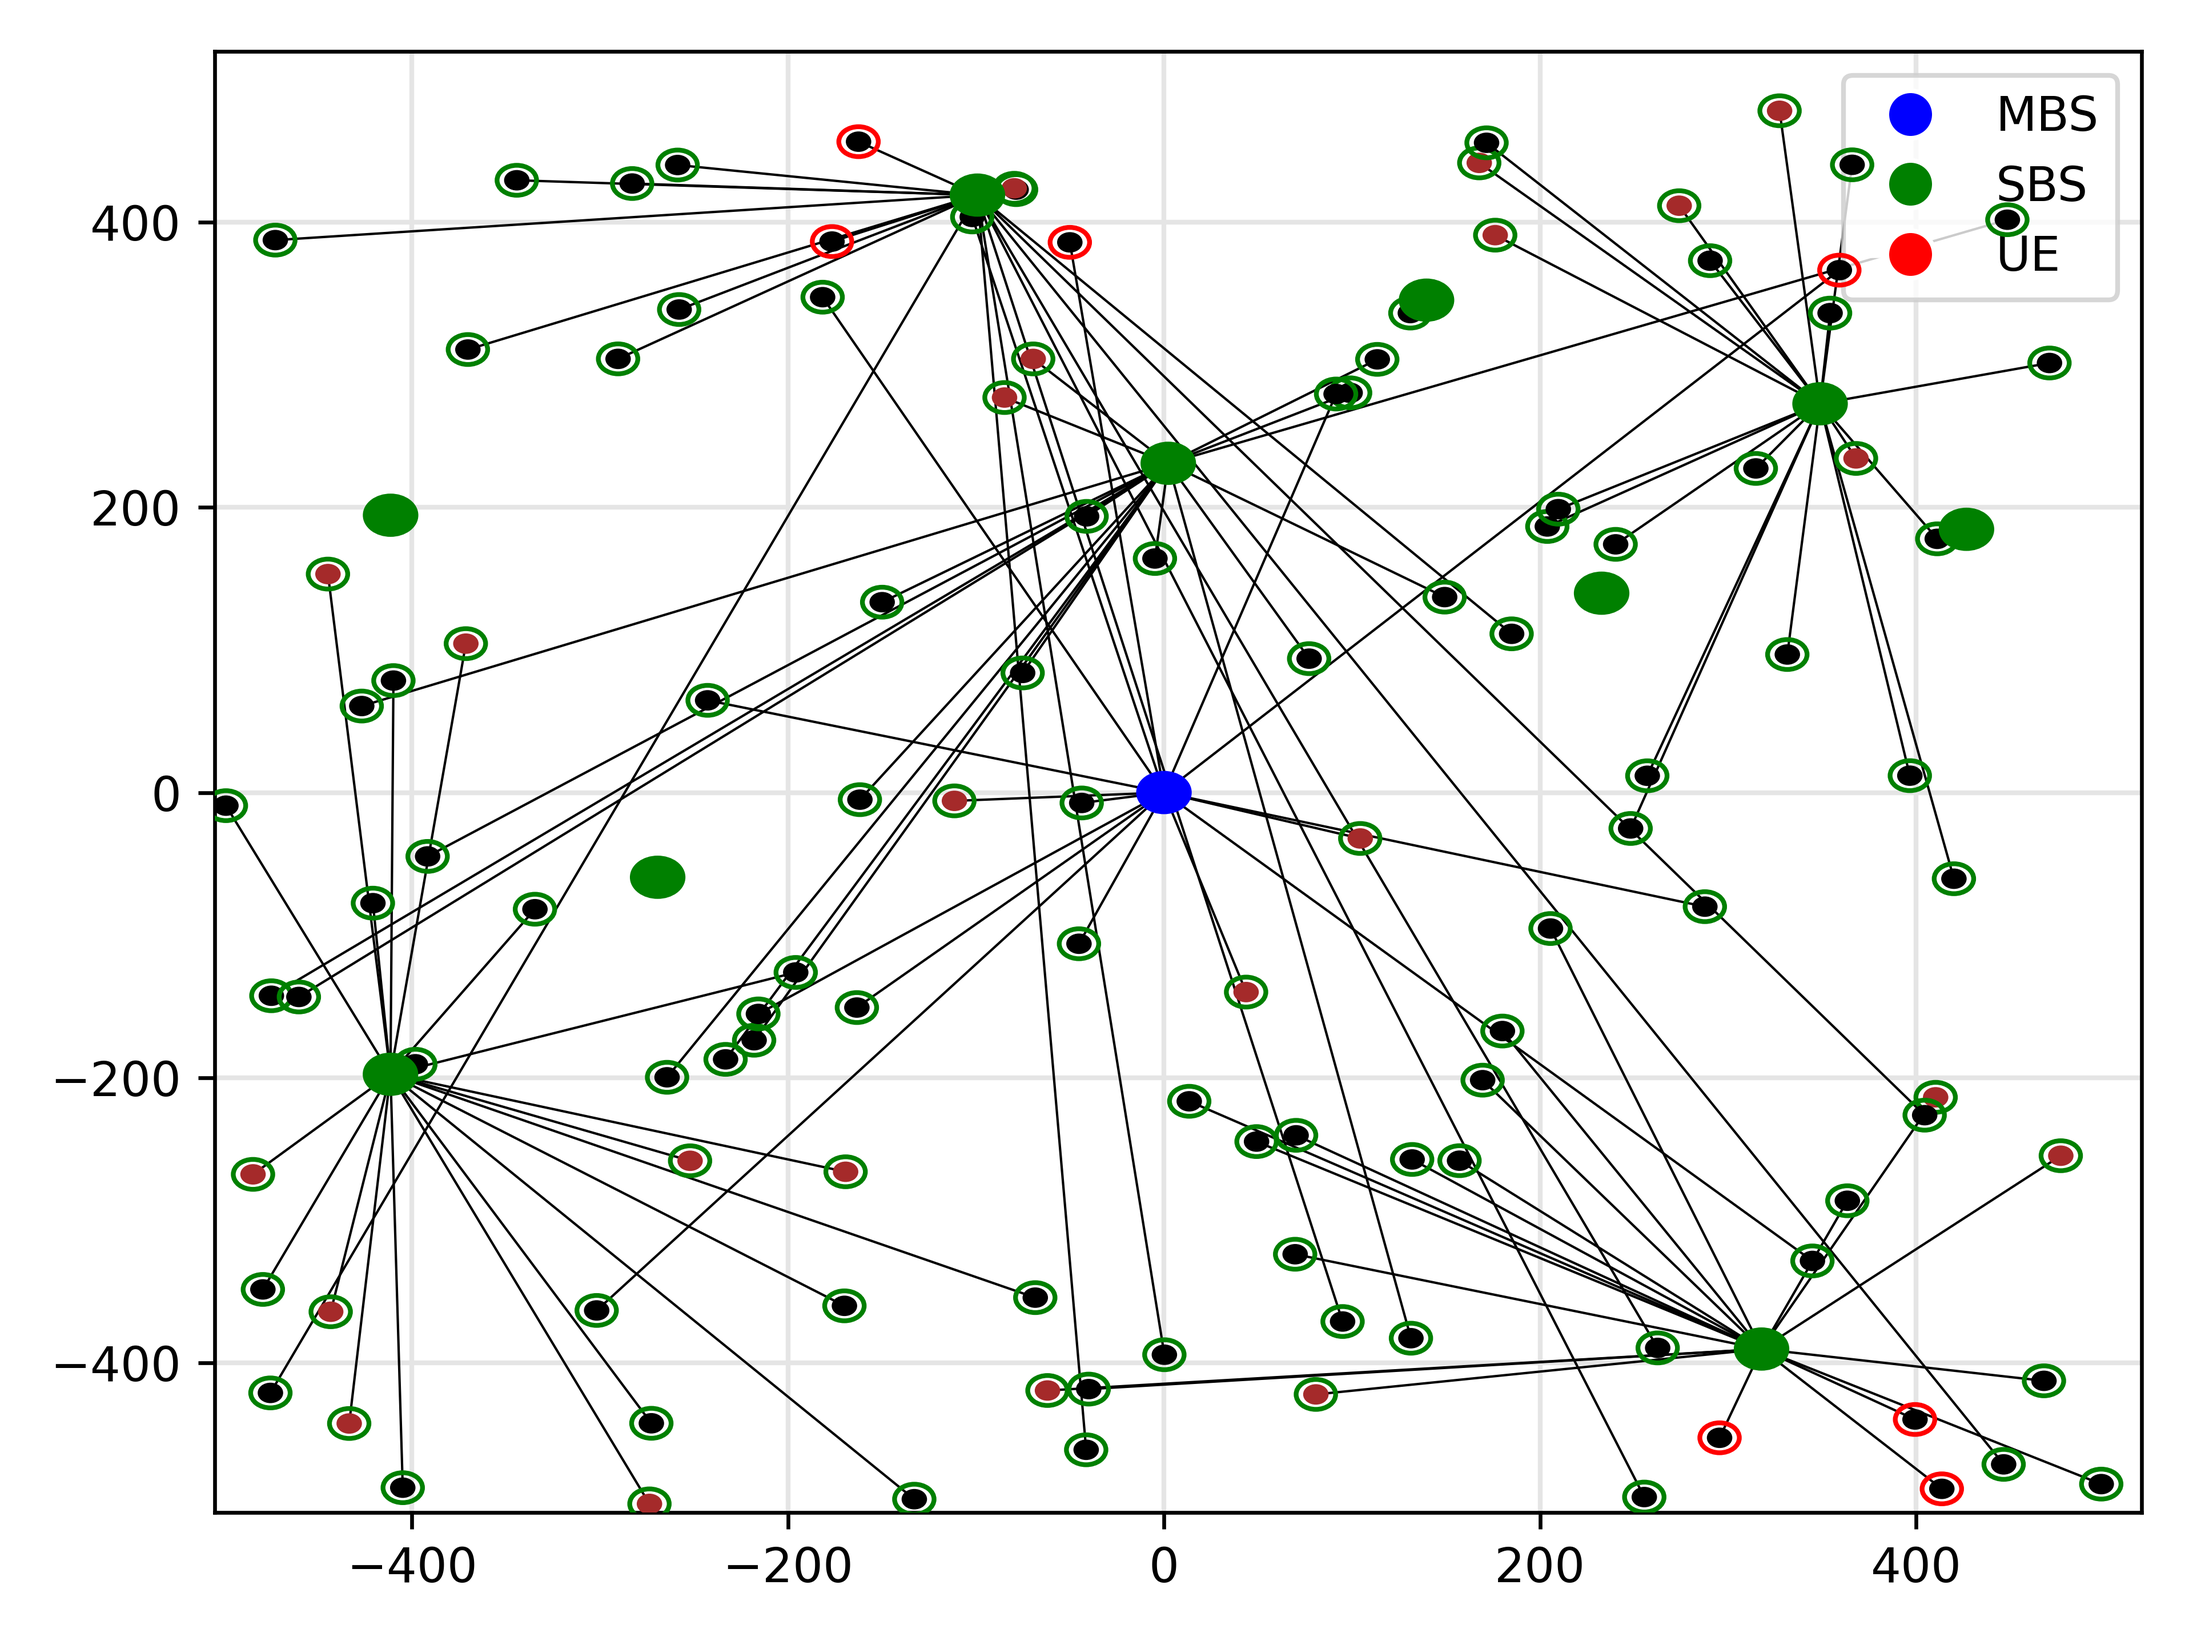
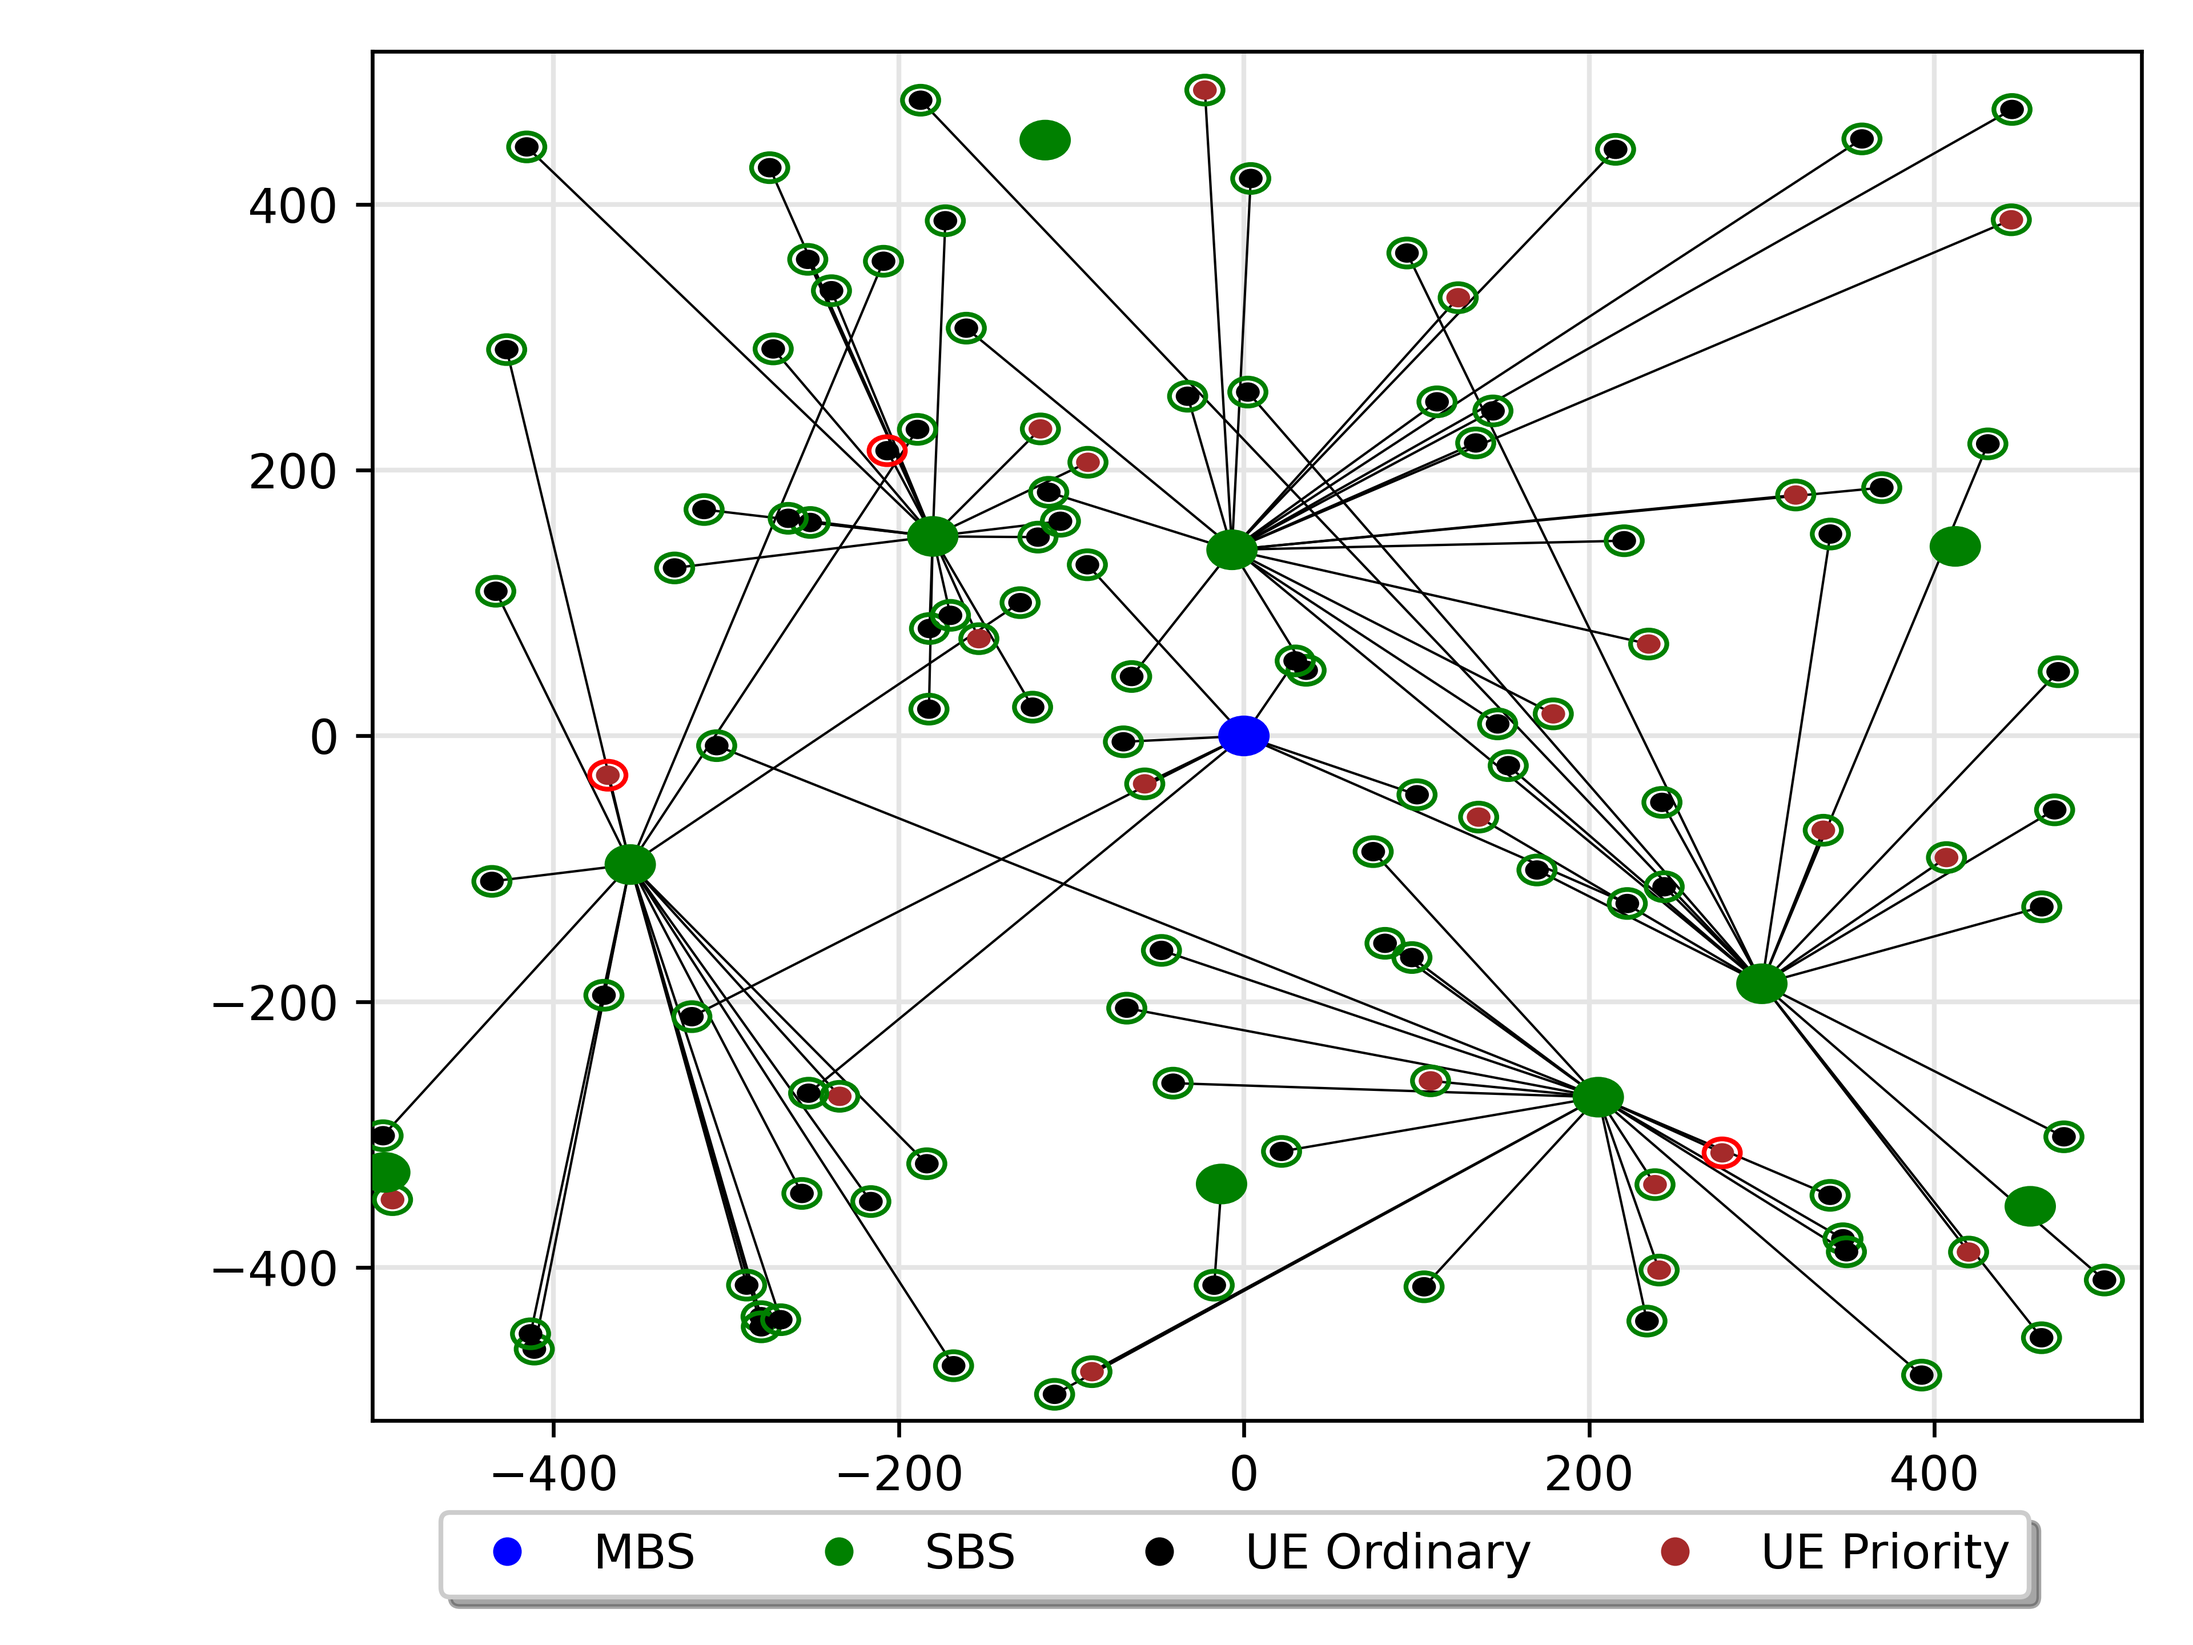
Alterações no resultados

Changed region(s): [[0.0312, 0.0312, 0.9688, 1.0], [0.0625, 0.4688, 0.125, 0.5312], [0.5312, 0.0312, 0.5625, 0.0625]]

diff --git a/results.py b/results.py
@@ -3,30 +3,42 @@ import pandas as pd
 import matplotlib.pyplot as plt
 import seaborn as sns
 
+from config.globalc import GlobalConfig
 
-a2c = pd.read_csv(os.path.join('output/csv', 'A2C.csv'))
-ppo = pd.read_csv(os.path.join('output/csv', 'PPO.csv'))
-ddpg = pd.read_csv(os.path.join('output/csv', 'DDPG.csv'))
-sac = pd.read_csv(os.path.join('output/csv', 'SAC.csv'))
-td3 = pd.read_csv(os.path.join('output/csv', 'TD3.csv'))
+config = GlobalConfig()
 
+max_sinr = pd.read_csv(os.path.join(config.csv_path, 'max_sinr.csv'))
+ubias = pd.read_csv(os.path.join(config.csv_path, 'bias.csv'))
+a2c = pd.read_csv(os.path.join(config.csv_path, 'A2C.csv'))
+ppo = pd.read_csv(os.path.join(config.csv_path, 'PPO.csv'))
+ddpg = pd.read_csv(os.path.join(config.csv_path, 'DDPG.csv'))
+sac = pd.read_csv(os.path.join(config.csv_path, 'SAC.csv'))
+td3 = pd.read_csv(os.path.join(config.csv_path, 'TD3.csv'))
 
-
+satisfacao_max = max_sinr['satisfaction']
+satisfacao_bias = ubias['satisfaction']
 satisfacao_a2c = a2c['satisfaction']
 satisfacao_ppo = ppo['satisfaction']
 satisfacao_ddpg = ddpg['satisfaction']
 satisfacao_sac = sac['satisfaction']
 satisfacao_td3 = td3['satisfaction']
 
-dataframe = pd.DataFrame({'A2C': satisfacao_a2c, 'PPO': satisfacao_ppo, 
-                          'DDPG': satisfacao_ddpg, 'SAC': satisfacao_sac, 'TD3': satisfacao_td3})
+dataframe = pd.DataFrame({'Max-SINR': satisfacao_max,
+                          'Bias-40db': satisfacao_bias,
+                          'A2C': satisfacao_a2c,
+                          'PPO': satisfacao_ppo,
+                          'DDPG': satisfacao_ddpg,
+                          'SAC': satisfacao_sac,
+                          'TD3': satisfacao_td3})
 
 # Plotar o boxplot usando seaborn
 sns.boxplot(data=dataframe, orient='v')
 
 # Nomeando dos eixos
-plt.xlabel('Algoritmo')
-plt.ylabel('Satisfacao')
+plt.xlabel('Algoritmo de RL')
+plt.ylabel('Satisfação de UEs [%]')
+plt.grid(linestyle=':', zorder=-1)
 
 # Exibir o gráfico
-plt.show()
+path = os.path.join(config.image_path, 'boxplot.png')
+plt.savefig(path, dpi=config.image_resolution, bbox_inches='tight')

diff --git a/main_bias.py b/main_bias.py
@@ -10,7 +10,7 @@ from utils.utils import coletar_satisfacao
 
 simulacoes = 100
 satisfaction = []
-model_name = "A2C"
+model_name = "bias"
 config = GlobalConfig()
 
 
@@ -25,39 +25,16 @@ for i in range(simulacoes):
     h.run()
     print("Satisfação Inicial: {}".format(h.evaluation['satisfaction']))
     print("Load Inicial: {}".format(h.get_load()))
-    if i % 10 == 0:
-        h.debug("initial_{}_{}.png".format(model_name, i))
 
     # Criação do Ambiente
     env = gym.make("gym_pycre:pycre-v0", hetnet=h)
 
-    # Verifica se há um modelo treinado
-    path = os.path.join(config.model_path, "{}.zip".format(model_name))
-    if os.path.isfile(path):
-        # Carrega o Modelo já treinado
-        model = A2C.load(path)
-    else:
-        # Criação do Modelo Novo
-        # TODO: Ainda pode ser ajustado o learning_rate.
-        model = A2C("MlpPolicy", env, verbose=2, policy_kwargs=dict(optimizer_class=RMSpropTFLike,
-                                                                    optimizer_kwargs=dict(eps=1e-5),
-                                                                    net_arch=[256, 256]))
-        # Treinamento do Modelo Novo
-        model.learn(total_timesteps=100000)
-
-        # Salva o Modelo Treinado
-        model.save(path)
-
     # Reseta o Ambiente
     obs = env.reset()
 
-    action, _states = model.predict(obs, deterministic=True)
-    obs, rewards, dones, info = env.step(action)
+    obs, rewards, dones, info = env.step([10.0, 40.0, 40.0, 40.0, 40.0, 40.0, 40.0, 40.0, 40.0, 40.0, 40.0])
     print("Satisfação Final: {}".format(info['satisfaction']))
     print("Load Final: {}".format(obs))
-    if i % 10 == 0:
-        output = "{}_{}".format(model_name, i)
-        env.render(model_name=output)
 
     # guardando em uma lista
     satisfaction.append(info['satisfaction'])

diff --git a/utils/chats.py b/utils/chats.py
@@ -8,16 +8,17 @@ from config.network import Network
 
 def get_visual(hetnet, filename):
     # Legend
-    legend_elements = [Line2D([0], [0], marker='o', color='w', label='MBS', markerfacecolor='b', markersize=10),
-                       Line2D([0], [0], marker='o', color='w', label='SBS', markerfacecolor='g', markersize=10),
-                       Line2D([0], [0], marker='o', color='w', label='UE', markerfacecolor='r', markersize=10)]
+    legend_elements = [Line2D([0], [0], marker='o', color='w', label='MBS', markerfacecolor='b', markersize=7),
+                       Line2D([0], [0], marker='o', color='w', label='SBS', markerfacecolor='g', markersize=7),
+                       Line2D([0], [0], marker='o', color='w', label='UE Ordinary', markerfacecolor='black', markersize=7),
+                       Line2D([0], [0], marker='o', color='w', label='UE Priority', markerfacecolor='brown', markersize=7)]
 
     # Create figure
     fig = plt.figure()
     ax = fig.add_subplot(1, 1, 1)
 
     plt.xlim(-505, 520)
-    plt.ylim(-505, 520)
+    plt.ylim(-515, 515)
     plt.grid(linestyle='-', linewidth=1, zorder=0, color='#E5E5E5')
 
     for linha_ue in hetnet.matrix:
@@ -49,7 +50,12 @@ def get_visual(hetnet, filename):
             ue_circle = plt.Circle(p, 13.5, color="green", zorder=10)
         ax.add_patch(ue_circle)
 
-    ax.legend(handles=legend_elements, loc='upper right')
+    #ax.legend(handles=legend_elements, loc='upper left')
+
+
+    box = ax.get_position()
+    ax.set_position([box.x0, box.y0, box.width * 0.8, box.height])
+    ax.legend(handles=legend_elements, bbox_to_anchor=(0.95, -0.05), fancybox=True, shadow=True, ncol=4)
     plt.tight_layout()
 
     path = os.path.join(hetnet.config.image_path, filename)

diff --git a/utils/utils.py b/utils/utils.py
@@ -11,8 +11,8 @@ from network.bs import BS
 from network.point import Point
 from network.ue import UE
 
-random.seed(10)
-np.random.seed(10)
+# random.seed(10)
+# np.random.seed(10)
 
 
 def get_ippp(simulation_area, lambda0, thinning_probability=0.4):
